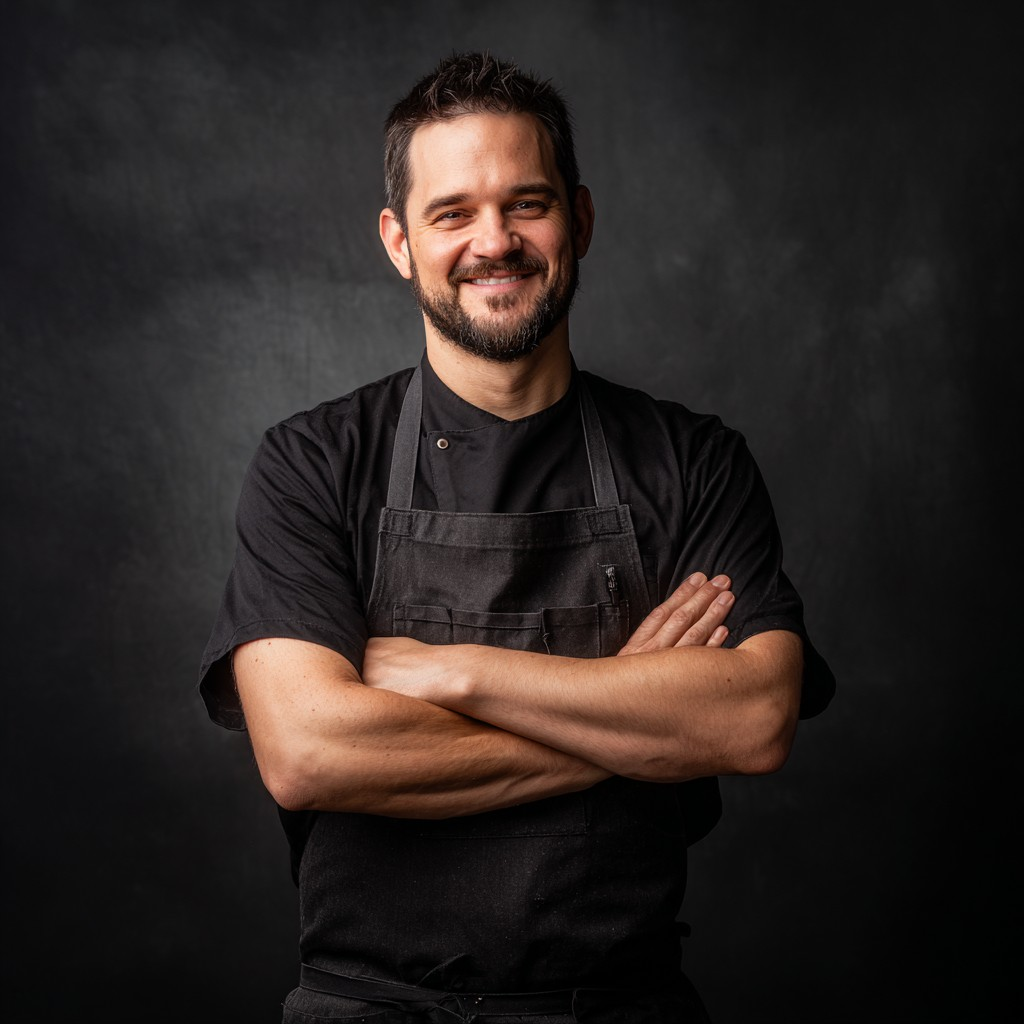
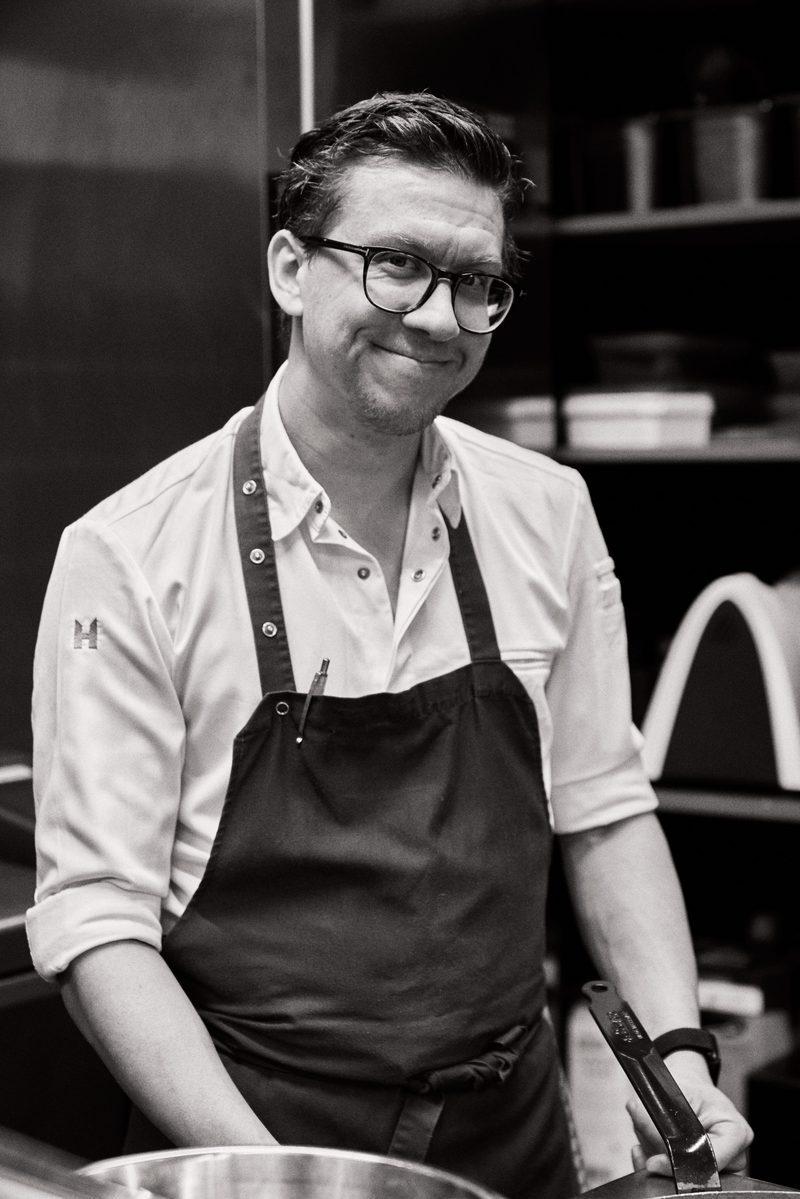
Image changes

diff --git a/index.html b/index.html
@@ -304,9 +304,6 @@
                             </div>
                         </div>
                     </div>
-                    <div class="page-image">
-                        <img src="images/origin-image-2-optimized.jpg" alt="The Tohru Team" loading="lazy">
-                    </div>
                 </div>
             </div>
         </div>
